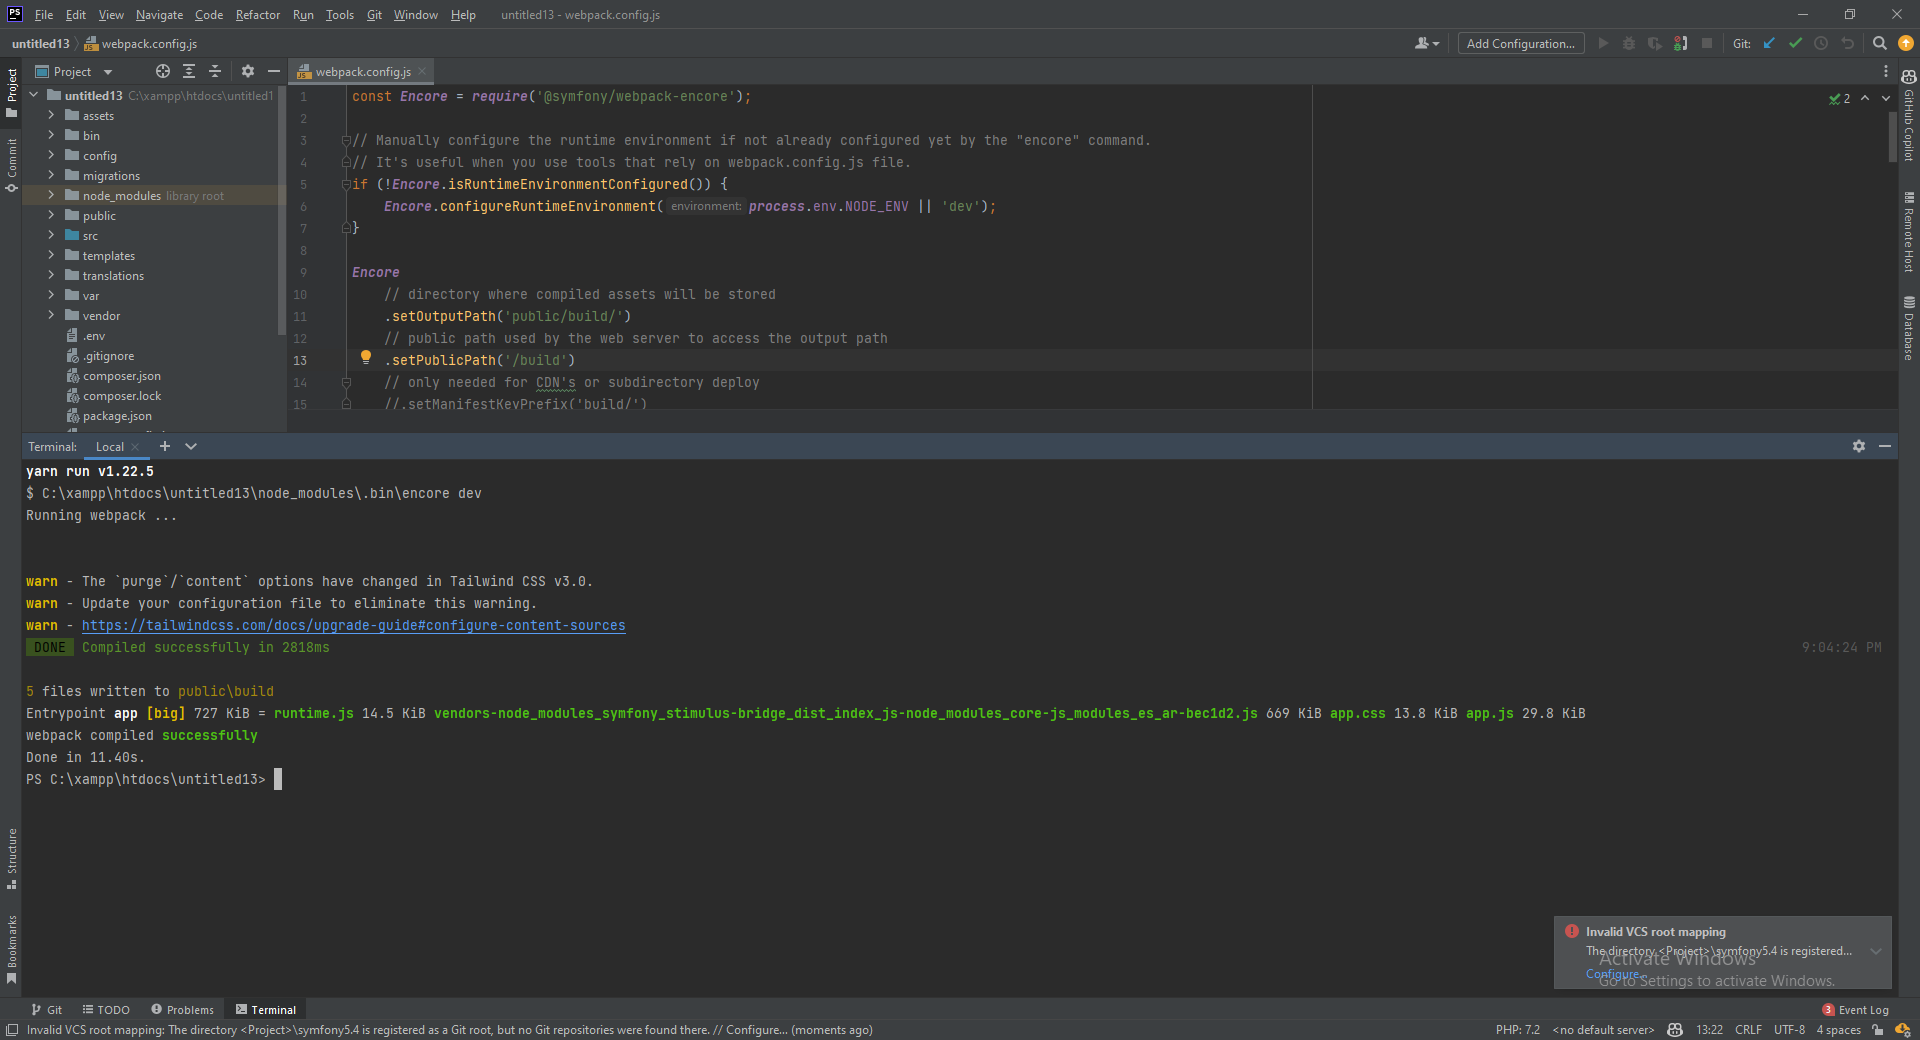
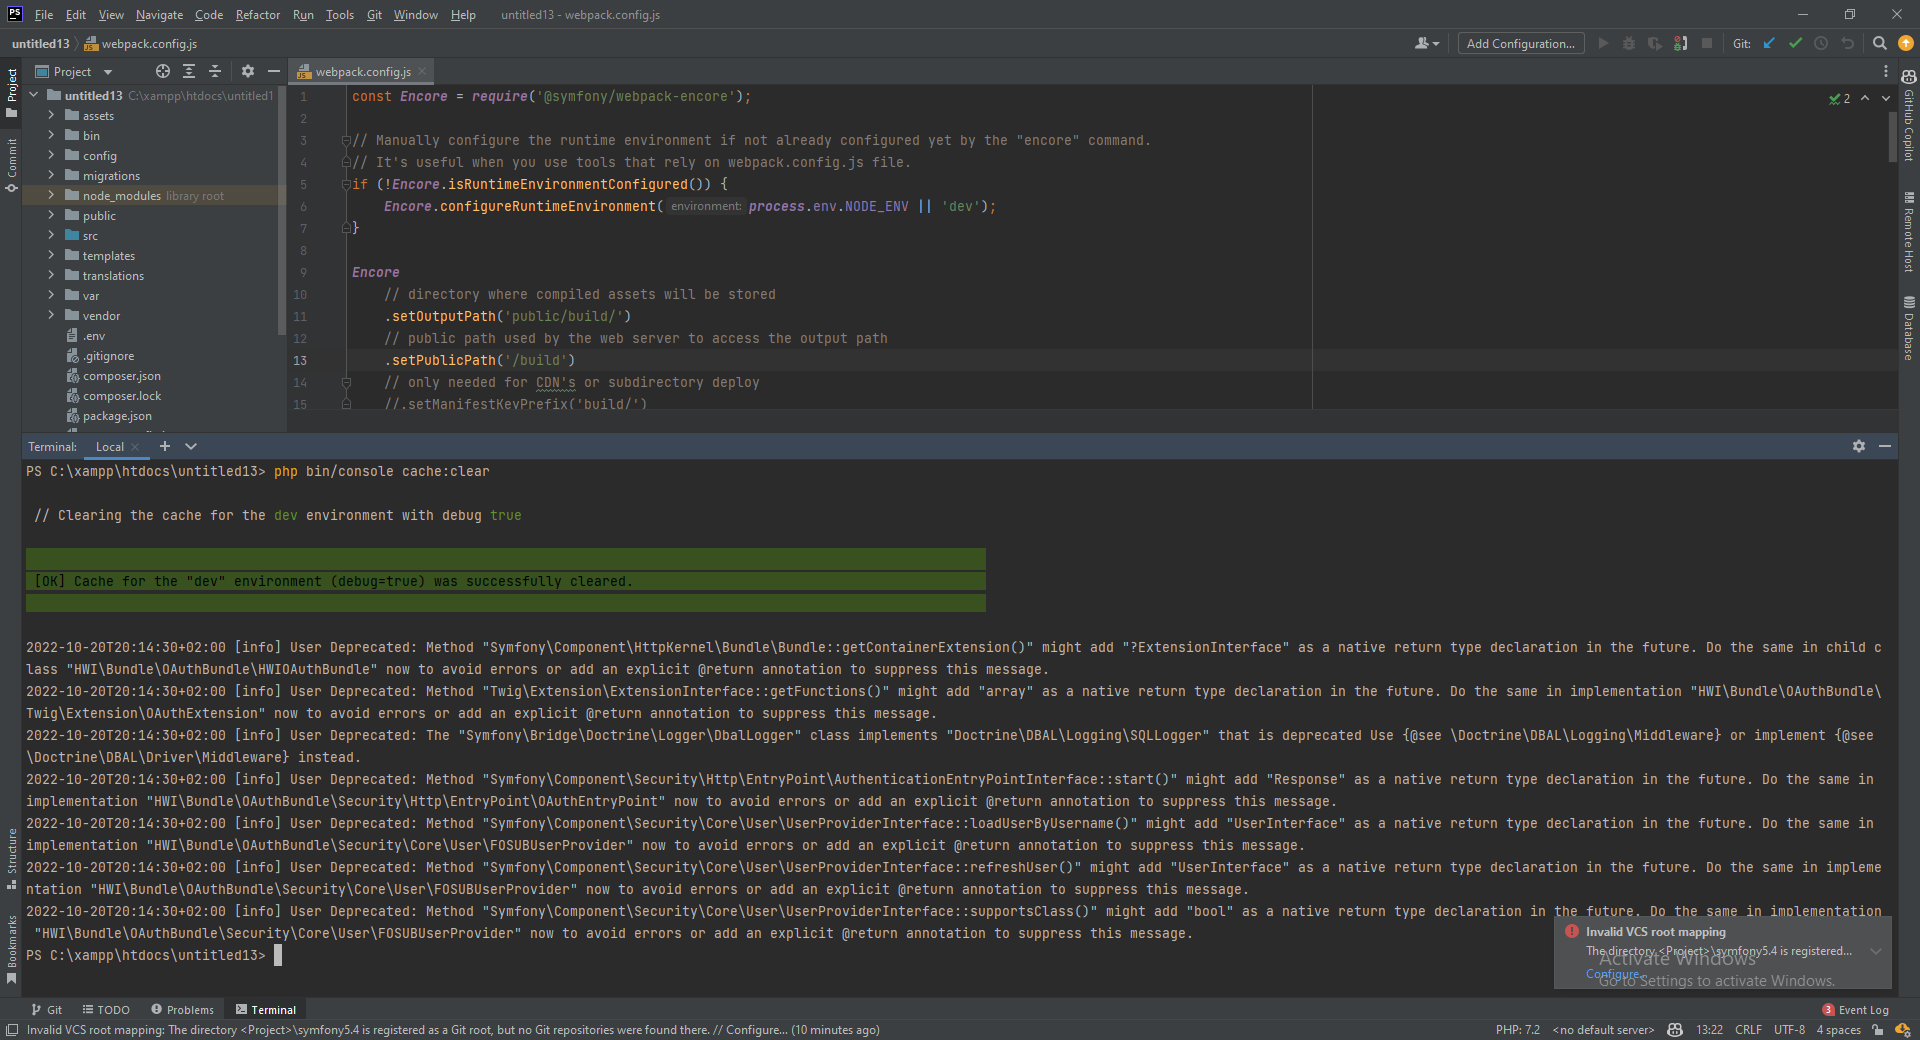
1st readme

diff --git a/steps/step4.md b/steps/step4.md
@@ -1,34 +1,14 @@
-# Create Webpack Assets
+# Clear Cache
 
-If we are on a development server (ex. blackflag.cloud), we need to change the `publicPath` in `webpack.config.js` file to use the correct path for the public folder.
-
+When you are done, clear the cache:
 ```bash
-#change webpack.config.js file to use the correct path for the public folder
-#change the following line
-publicPath: '/symfony/public/build',
-#to
-publicPath: '/build',
+php bin/console cache:clear
 ```
 
-If instead we are using XAMPP, you can use the following configuration:
-```bash
-#change webpack.config.js file to use the correct path for the public folder
-#change the following line
-publicPath: '/symfony/public/build',
-#to
-publicPath: '/public/build',
-```
-
-In the terminal, run the following commands to build the assets:
-```bash
-#build assets
-yarn encore dev
-#or if you want to watch for changes
-yarn encore dev --watch
-```
+This will make the project ready to be uploaded to our VCS (Github).
 
 ![Step 4](../images/step4.png)
 
 <div align="right">
-<a href="https://github.com/agaktr/workflows/blob/master/steps/step4.md" align="right">Next: Install Dependencies</a>
+<a href="https://github.com/agaktr/workflows/blob/master/steps/step5.md" align="right">Next: Upload Project to Github</a>
 </div>  

diff --git a/steps/step41.md b/steps/step41.md
@@ -1,0 +1,36 @@
+# Create Webpack Assets
+
+If you are on a development server (ex. blackflag.cloud), we need to change the `publicPath` in `webpack.config.js` file to use the correct path for the public folder.
+
+```bash
+#change webpack.config.js file to use the correct path for the public folder
+#change the following line
+publicPath: '/symfony/public/build',
+#to
+publicPath: '/build',
+```
+
+If instead you are using XAMPP, you can use the following configuration:
+```bash
+#change webpack.config.js file to use the correct path for the public folder
+#change the following line
+publicPath: '/symfony/public/build',
+#to
+publicPath: '/public/build',
+```
+
+In the terminal, run the following commands to build the assets:
+```bash
+#build assets
+yarn encore dev
+#or if you want to watch for changes
+yarn encore dev --watch
+```
+
+If you leave the watcher on, you can open a new terminal window and continue with the next steps.
+
+![Step 4](../images/step41.png)
+
+<div align="right">
+<a href="https://github.com/agaktr/workflows/blob/master/steps/step4.md" align="right">Next: Install Dependencies</a>
+</div>  

diff --git a/steps/step5.md b/steps/step5.md
@@ -1,0 +1,25 @@
+# Upload Project to Github
+
+Share the new project on github through the VCS menu:
+```bash
+Git > GitHub > Share Project on GitHub
+#Choose all the files for the initial commit
+
+#After you have created the repository on github, 
+# create a new dev branch
+git checkout -b dev
+
+#set the upstream branch so you can push to the dev branch
+git push --set-upstream origin dev
+```
+
+Now you can safely work on the dev branch and push your changes to github.
+With the dev branch, you can create a pull request to the master branch when you are done with your changes.
+
+The server will automatically deploy the dev/prod branches using a cron job.
+
+![Step 5](../images/step5.png)
+
+<div align="right">
+<a href="https://github.com/agaktr/workflows/blob/master/steps/step6.md" align="right">Next: Setup the Dev server</a>
+</div>  

diff --git a/README.md b/README.md
@@ -2,12 +2,15 @@
 
 Here is a list of workflows that we use at Apto.
 
-##Table of Contents
+## Table of Contents
 
 1. [IDE Setup for Symfony (PHPStorm)](https://github.com/agaktr/workflows/blob/master/steps/step1.md) 
 2. [Clone Apto Library](https://github.com/agaktr/workflows/blob/master/steps/step2.md) 
 3. [Install Dependencies](https://github.com/agaktr/workflows/blob/master/steps/step3.md) 
-4. [Create Webpack Assets](https://github.com/agaktr/workflows/blob/master/steps/step4.md) 
+4. [Clear Cache](https://github.com/agaktr/workflows/blob/master/steps/step4.md) 
+5. [Upload Project to Github](https://github.com/agaktr/workflows/blob/master/steps/step5.md) 
+
+[//]: # (4. [Create Webpack Assets]&#40;https://github.com/agaktr/workflows/blob/master/steps/step4.md&#41; )
 
 
 ## 1. IDE setup (Windows)

diff --git a/steps/step3.md b/steps/step3.md
@@ -13,5 +13,5 @@ This will allow the IDE to understand the code and provide code completion and o
 ![Step 3](../images/step3.png)
 
 <div align="right">
-<a href="https://github.com/agaktr/workflows/blob/master/steps/step4.md" align="right">Next: Create Webpack Assets</a>
+<a href="https://github.com/agaktr/workflows/blob/master/steps/step4.md" align="right">Next: Clear Cache</a>
 </div>  
